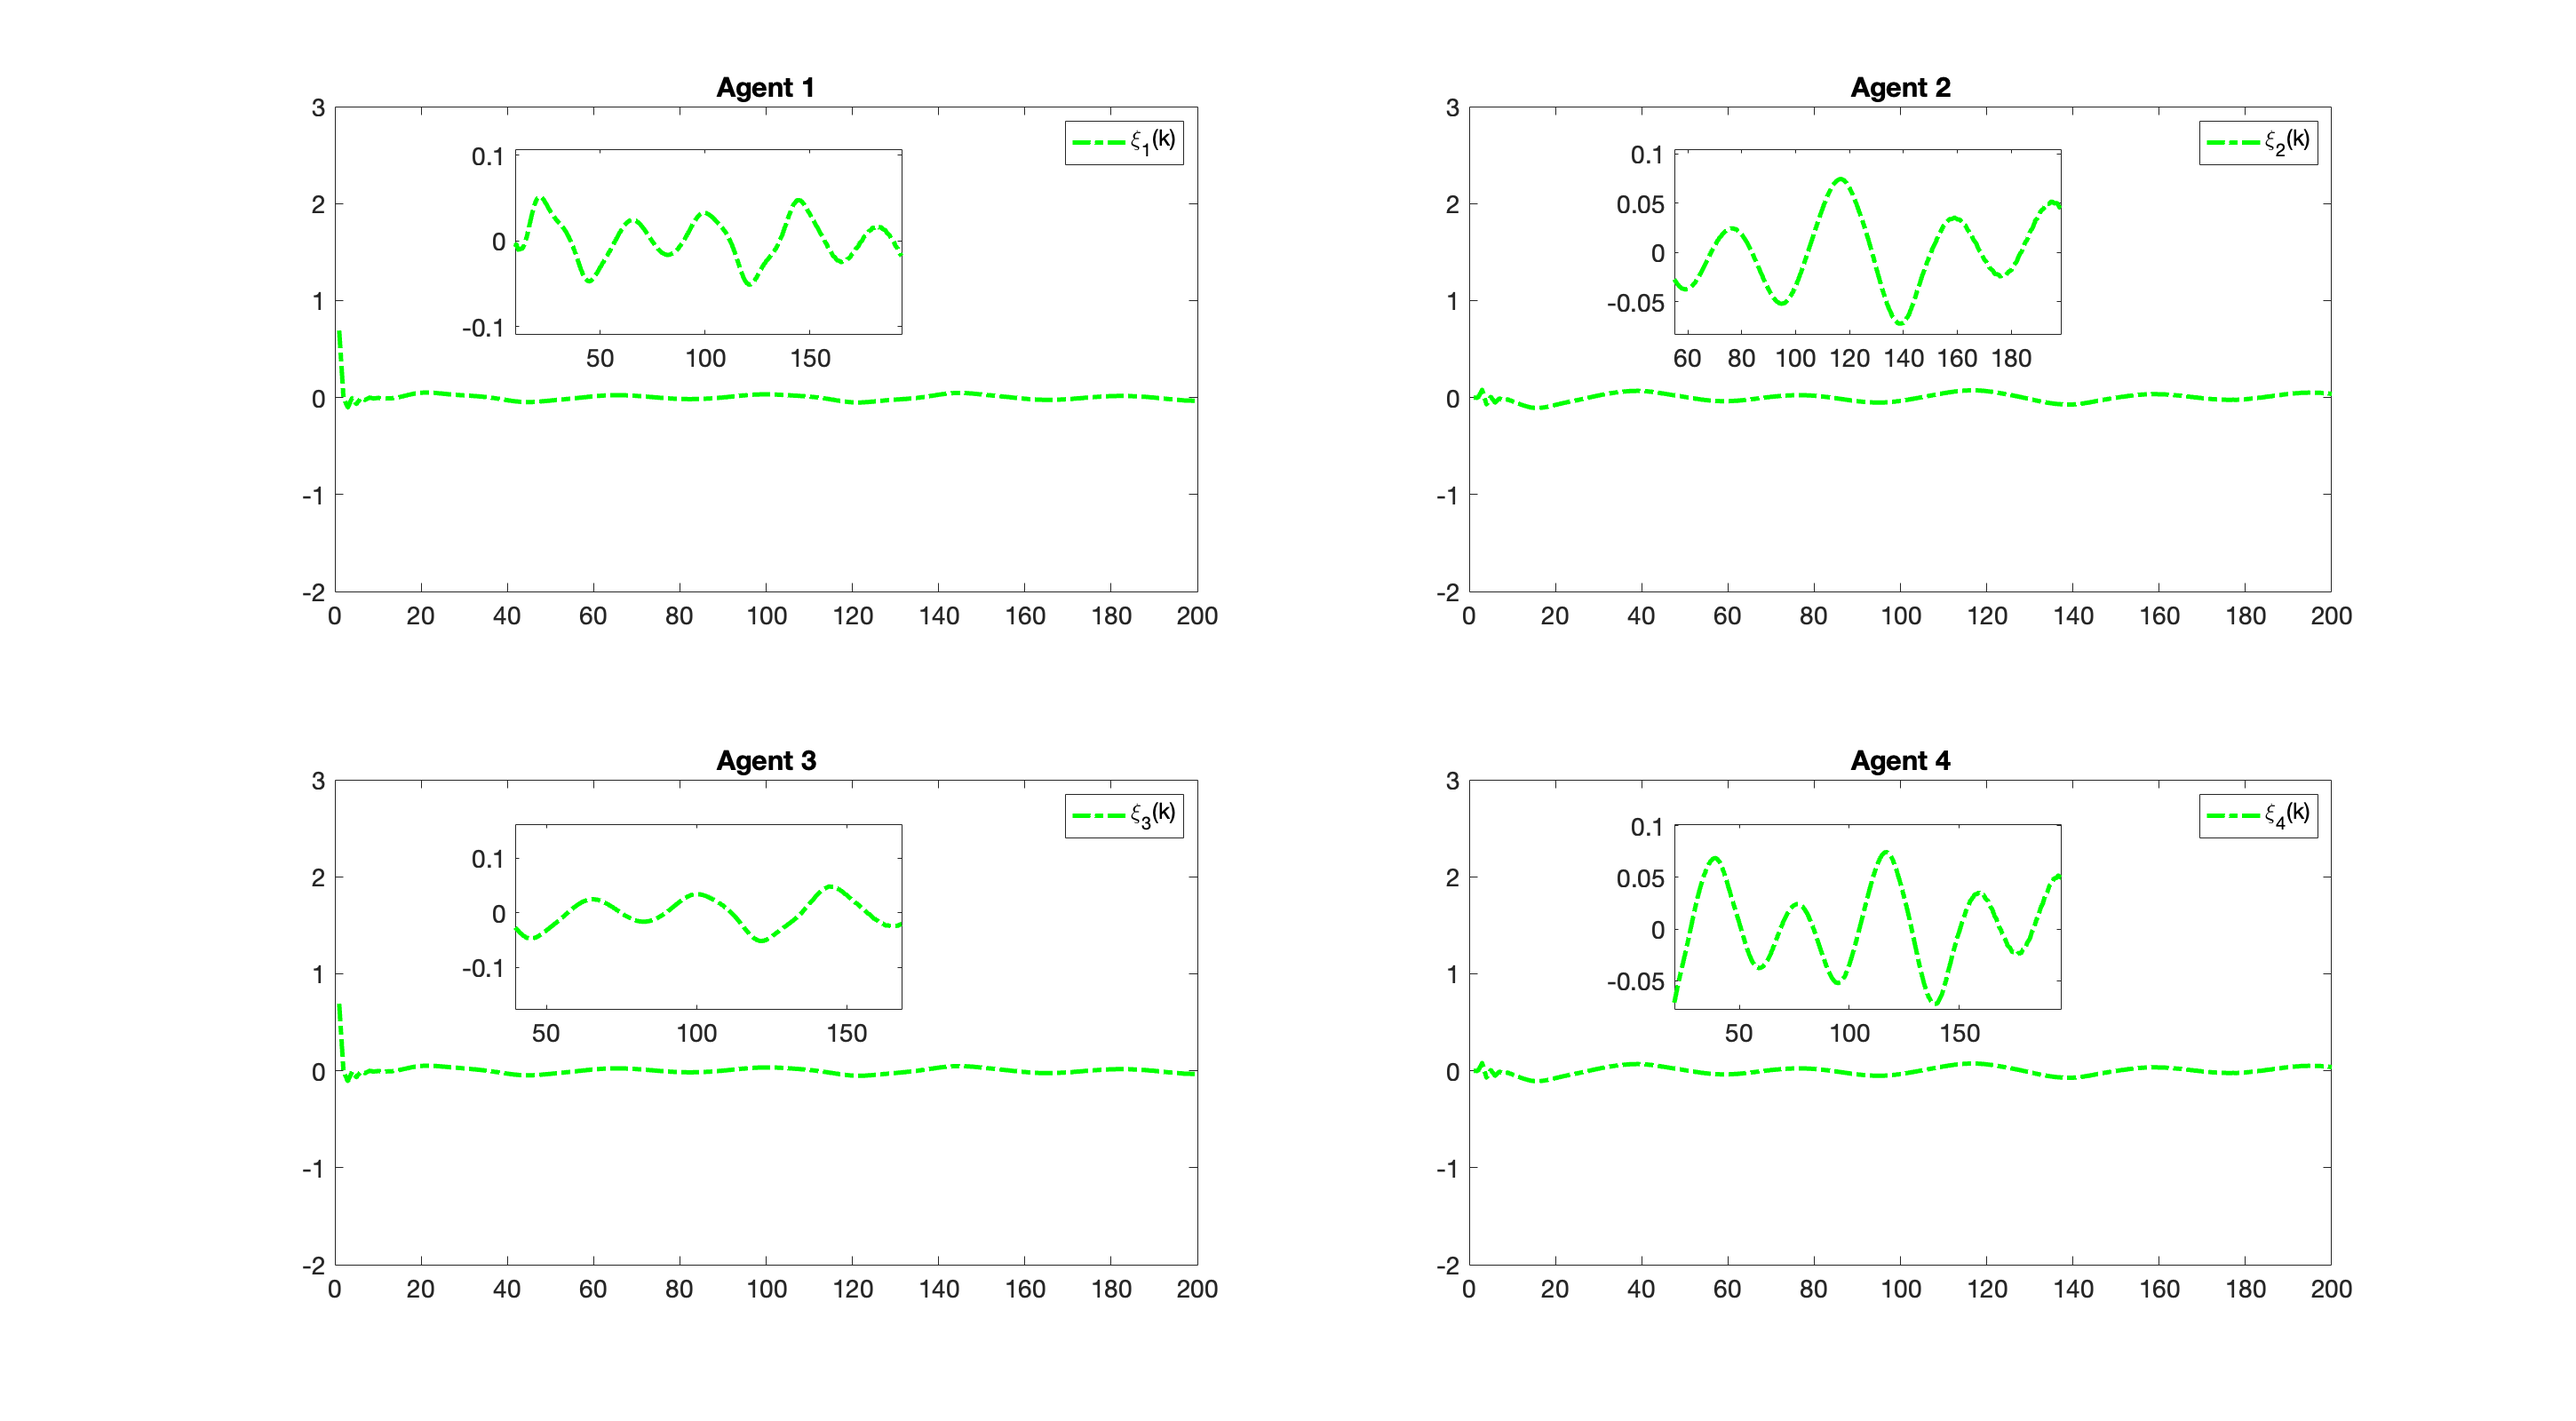
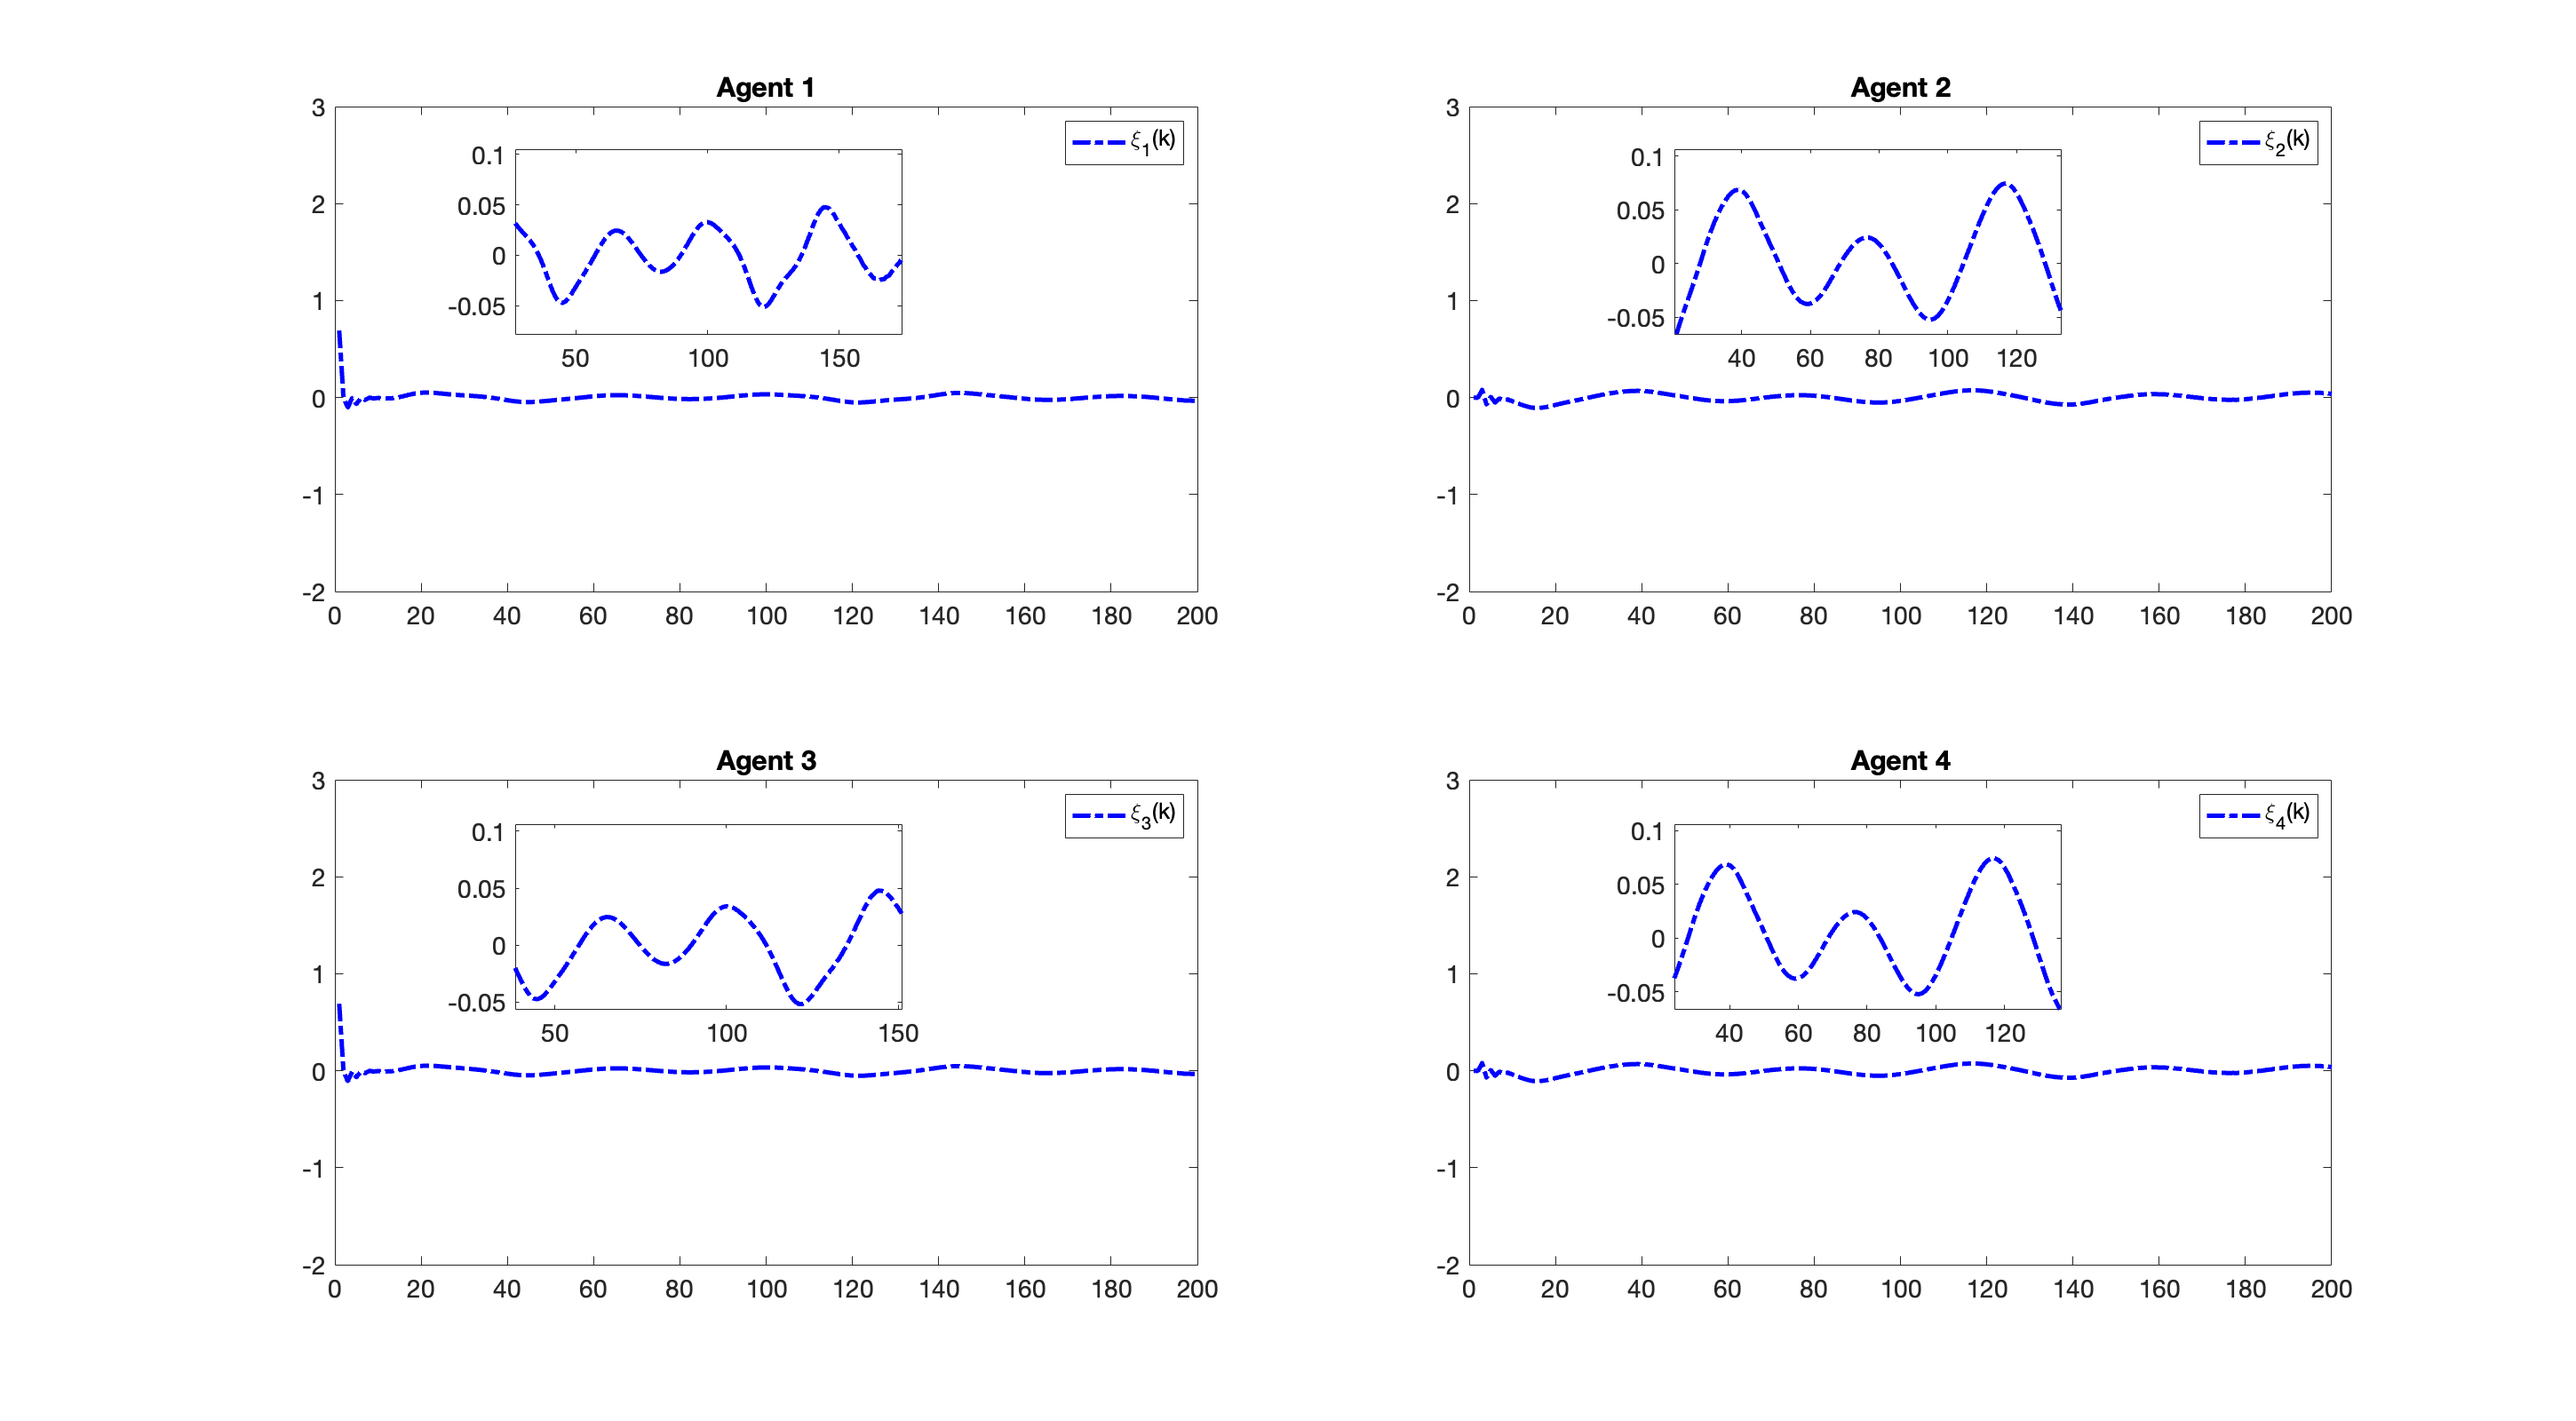
asds

diff --git a/comparison_.m b/comparison_.m
@@ -58,8 +58,8 @@ yd = zeros(m+1,1);
 
 % Desired signal (Reference trajectory)
 for k = 1:m+1
-    % yd(k) = 0.6 * sin(0.05 * pi * k) + 0.6 * cos(0.03 * pi * k);
-    yd(k) = 0.6; % Time-invariant constant reference signalx
+    yd(k) = 0.6 * sin(0.05 * pi * k) + 0.6 * cos(0.03 * pi * k);
+    % yd(k) = 0.6; % Time-invariant constant reference signalx
 end
 
 % Method 1 (MFAC + SMC) Simulation
@@ -255,6 +255,9 @@ t = 1:m+1; t_err = 1:m;
 
 % Plot outputs (y1, y2, y3, y4) for both methods
 figure('Position', [100, 100, 1450, 800]);
+% zoom_x_start = 90.2; % Start of zoomed x-range
+% zoom_x_end = 96.5; % End of zoomed x-range
+
 zoom_x_start = 25; % Start of zoomed x-range
 zoom_x_end = 45; % End of zoomed x-range
 for i = 1:4
@@ -268,7 +271,7 @@ for i = 1:4
         legend('y_d(k)',  'Method [1]','Proposed scheme','orientation', 'horizontal');
         set(gca, 'FontSize', font_size);
         xlim([0 m]); % X-axis starts from 0
-        % ylim([-1.5 4]); % Y-axis limits for Agent 1
+        ylim([-1.5 4]); % Y-axis limits for Agent 1
 
 
         axes('Position', [0.18,0.76,0.13,0.10]);
@@ -287,11 +290,11 @@ for i = 1:4
         plot(t, y2_m1, '--g', 'LineWidth', 3);
 
 
-        title('Agent 1'); grid off;
+        title('Agent 2'); grid off;
         legend('y_d(k)',  'Method [1]','Proposed scheme','orientation', 'horizontal');
         set(gca, 'FontSize', font_size);
         xlim([0 m]); % X-axis starts from 0
-        % ylim([-1.5 4]); % Y-axis limits for Agent 1
+        ylim([-1.5 4]); % Y-axis limits for Agent 1
 
         axes('Position', [0.62,0.76,0.13,0.10]);
         box on; hold on;
@@ -305,11 +308,11 @@ for i = 1:4
         plot(t, y3_m2, '-.r', 'LineWidth', 3);
         plot(t, y3_m1, '--g', 'LineWidth', 3);
 
-        title('Agent 1'); grid off;
+        title('Agent 3'); grid off;
         legend('y_d(k)',  'Method [1]','Proposed scheme','orientation', 'horizontal');
         set(gca, 'FontSize', font_size);
         xlim([0 m]); % X-axis starts from 0
-        % ylim([-1.5 4]); % Y-axis limits for Agent 1
+        ylim([-1.5 4]); % Y-axis limits for Agent 1
 
         axes('Position', [0.18,0.287,0.13,0.10]);
         box on; hold on;
@@ -323,11 +326,11 @@ for i = 1:4
         plot(t, y4_m2, '-.r', 'LineWidth', 3);
         plot(t, y4_m1, '--g', 'LineWidth', 3);
 
-        title('Agent 1'); grid off;
+        title('Agent 4'); grid off;
         legend('y_d(k)',  'Method [1]','Proposed scheme','orientation', 'horizontal');
         set(gca, 'FontSize', font_size);
         xlim([0 m]); % X-axis starts from 0
-        % ylim([-1.5 4]); % Y-axis limits for Agent 1
+        ylim([-1.5 4]); % Y-axis limits for Agent 1
 
         axes('Position', [0.62,0.287,0.13,0.10]);
         box on; hold on;

diff --git a/mfasmc_var.m b/mfasmc_var.m
@@ -300,7 +300,7 @@ disp(['Length of xi1: ', num2str(length(xi1))]); % Should be 200
 figure('Position', [100, 100, 1450, 800]);
 % figure('Position', [100, 100, 15*100, 7.5*100]); % [left, bottom, width, height] in pixels
 subplot(2,2,1);
-plot(t(1:end-1), xi1, '-.g', 'LineWidth', 2.5);
+plot(t(1:end-1), xi1, '-.b', 'LineWidth', 2.5);
 title('Agent 1'); grid off;
 legend('\xi_1(k)','y_1','Orientation', 'horizontal');
 set(gca, 'FontSize', font_size);
@@ -311,13 +311,13 @@ zoom_x_start_xi = 50; % Start of zoomed x-range
 zoom_x_end_xi = 100; % End of zoomed x-range0.20,0.79,0.13,0.10
 axes('Position', [0.20,0.765,0.15,0.13]);
 box on; hold on;
-plot(t(1:end-1), xi1, '-.g', 'LineWidth', 2.5);
+plot(t(1:end-1), xi1, '-.b', 'LineWidth', 2.5);
 xlim([zoom_x_start_xi zoom_x_end_xi]);
 % yticks([-2.000000000000000e-04,0,2.000000000000000e-04,4.000000000000001e-04,6.000000000000001e-04]);
 set(gca, 'FontSize', font_size);
 
 subplot(2,2,2);
-plot(t(1:end-1), xi2, '-.g', 'LineWidth', 2.5);
+plot(t(1:end-1), xi2, '-.b', 'LineWidth', 2.5);
 title('Agent 2'); grid off;
 legend('\xi_2(k)','y_2','Orientation', 'horizontal');
 set(gca, 'FontSize', font_size);
@@ -326,13 +326,13 @@ ylim([-2 3]); % Y-axis limits for Agent 2
 
 axes('Position', [0.65,0.765,0.15,0.13]);
 box on; hold on;
-plot(t(1:end-1), xi2, '-.g', 'LineWidth', 2.5);
+plot(t(1:end-1), xi2, '-.b', 'LineWidth', 2.5);
 xlim([zoom_x_start_xi zoom_x_end_xi]);
 % yticks([-2.000000000000000e-04,0,2.000000000000000e-04,4.000000000000001e-04,6.000000000000001e-04]);
 set(gca, 'FontSize', font_size);
 
 subplot(2,2,3);
-plot(t(1:end-1), xi3, '-.g', 'LineWidth', 2.5);
+plot(t(1:end-1), xi3, '-.b', 'LineWidth', 2.5);
 title('Agent 3'); grid off;
 legend('\xi_3(k)','y_3','Orientation', 'horizontal');
 set(gca, 'FontSize', font_size);
@@ -341,13 +341,13 @@ ylim([-2 3]); % Y-axis limits for Agent 2
 
 axes('Position', [0.20,0.290,0.15,0.13]);
 box on; hold on;
-plot(t(1:end-1), xi3, '-.g', 'LineWidth', 2.5);
+plot(t(1:end-1), xi3, '-.b', 'LineWidth', 2.5);
 xlim([zoom_x_start_xi zoom_x_end_xi]);
 % yticks([0.599,0.6,0.601]);
 set(gca, 'FontSize', font_size);
 
 subplot(2,2,4);
-plot(t(1:end-1), xi4, '-.g', 'LineWidth', 2.5);
+plot(t(1:end-1), xi4, '-.b', 'LineWidth', 2.5);
 title('Agent 4'); grid off;
 legend('\xi_4(k)','y_4','Orientation', 'horizontal');
 set(gca, 'FontSize', font_size);
@@ -356,7 +356,7 @@ ylim([-2 3]); % Y-axis limits for Agent 4
 
 axes('Position', [0.65,0.290,0.15,0.13]);
 box on; hold on;
-plot(t(1:end-1), xi4, '-.g', 'LineWidth', 2.5);
+plot(t(1:end-1), xi4, '-.b', 'LineWidth', 2.5);
 xlim([zoom_x_start_xi zoom_x_end_xi]);
 % xticks([64,64.5,65])
 % yticks([-1.000000000000000e-04,0,1.000000000000000e-04]);

diff --git a/data_plot.m b/data_plot.m
@@ -1,4 +1,3 @@
-% MATLAB script to read and plot motor data from a file
 clear all;
 close all;
 
@@ -21,10 +20,20 @@ if ~isempty(ch3_data_match) && ~isempty(ch1_data_match) && ~isempty(ch2_data_mat
     ch2_data = str2num(ch2_data_match{1}{1});
     ch4_data = str2num(ch4_data_match{1}{1});
     
-    % Calculate distributed errors
-    error1 = ch2_data - ch1_data;
-    error2 = ch2_data - ch3_data;
-    error3 = ch2_data - ch4_data;
+    % Calculate distributed errors (xi)
+    xi1 = ch2_data - ch1_data; % Error for Motor 1
+    xi2 = ch2_data - ch3_data; % Error for Motor 2
+    xi3 = ch2_data - ch4_data; % Error for Motor 3
+    
+    % Calculate MSE for each error
+    mse1 = mean(xi1.^2); % MSE for Motor 1
+    mse2 = mean(xi2.^2); % MSE for Motor 2
+    mse3 = mean(xi3.^2); % MSE for Motor 3
+    
+    % Display MSE values
+    fprintf('MSE for Motor 1 (CH2 - CH1): %.10e\n', mse1);
+    fprintf('MSE for Motor 2 (CH2 - CH3): %.10e\n', mse2);
+    fprintf('MSE for Motor 3 (CH2 - CH4): %.10e\n', mse3);
     
     % Plot the data
     figure('Position', [100, 100, 800, 400]);
@@ -41,8 +50,6 @@ if ~isempty(ch3_data_match) && ~isempty(ch1_data_match) && ~isempty(ch2_data_mat
     % ylabel('Output', 'FontSize', 14);
     ylim([-1.5 3]); % Y-axis limits for Agent 4
     set(gca, 'FontSize', 14);
-
-  
     
     % Add legend
     legend('show','orientation','horizontal');
@@ -59,7 +66,7 @@ if ~isempty(ch3_data_match) && ~isempty(ch1_data_match) && ~isempty(ch2_data_mat
     % yticks([-0.4,0,0.2]);
     set(gca, 'FontSize', 14);
     
-    % Save the plot (equivalent to plt.show() in Python)
+    % Save the plot
     print('-dpng', 'motor_plot.png');
 else
     disp('CH3_Data_OutPut[1707] not found in the file.');
